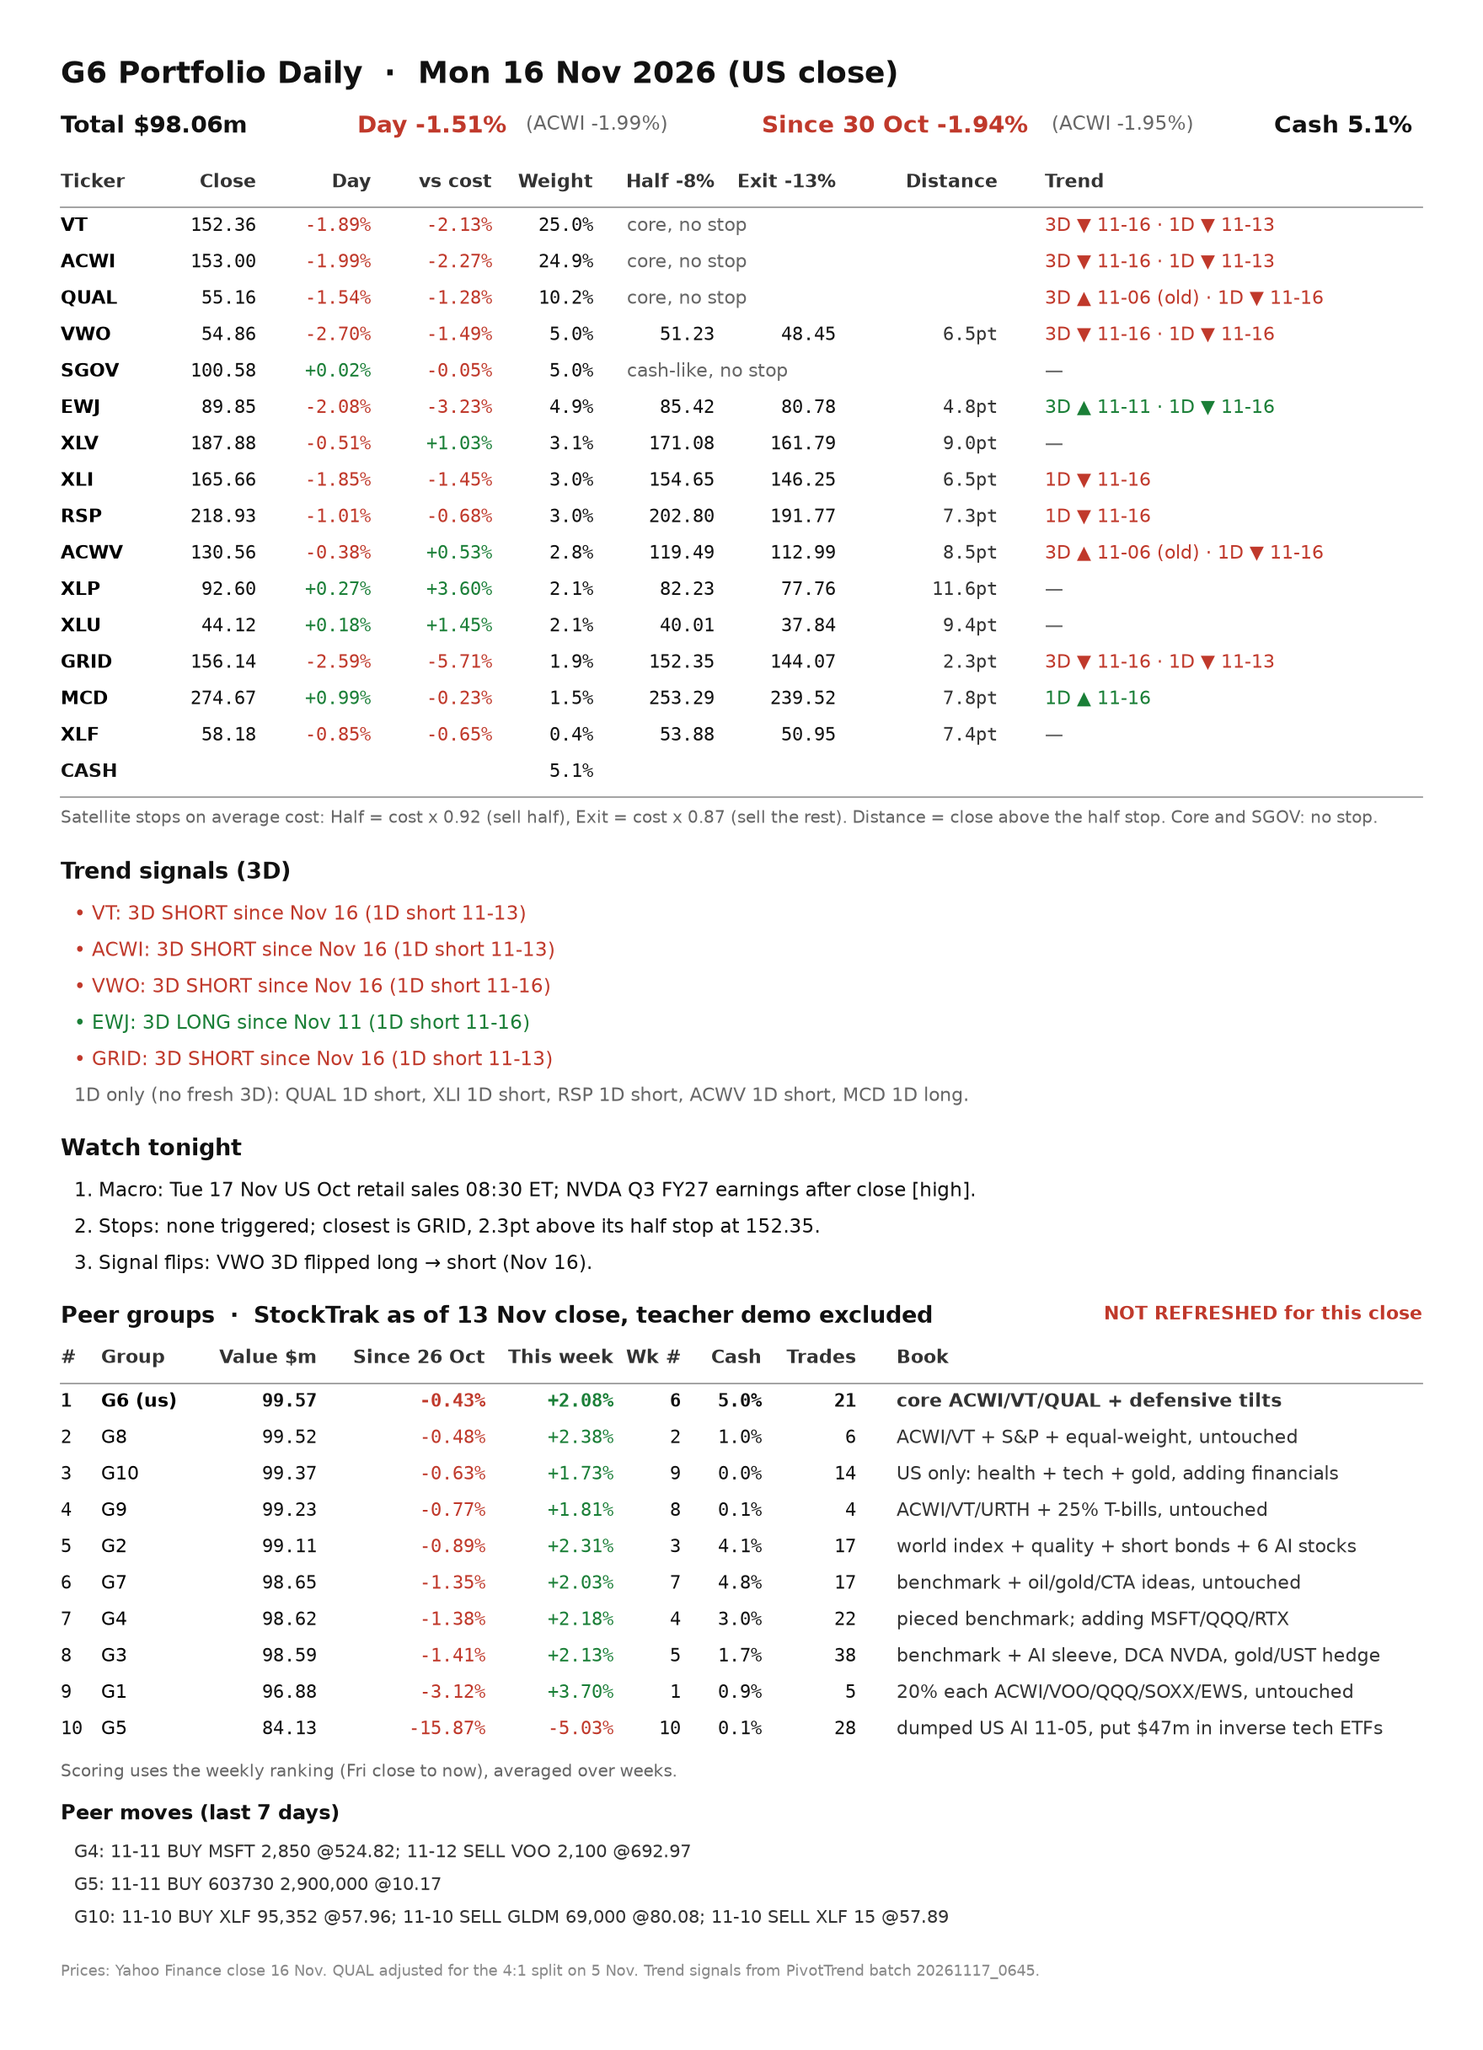
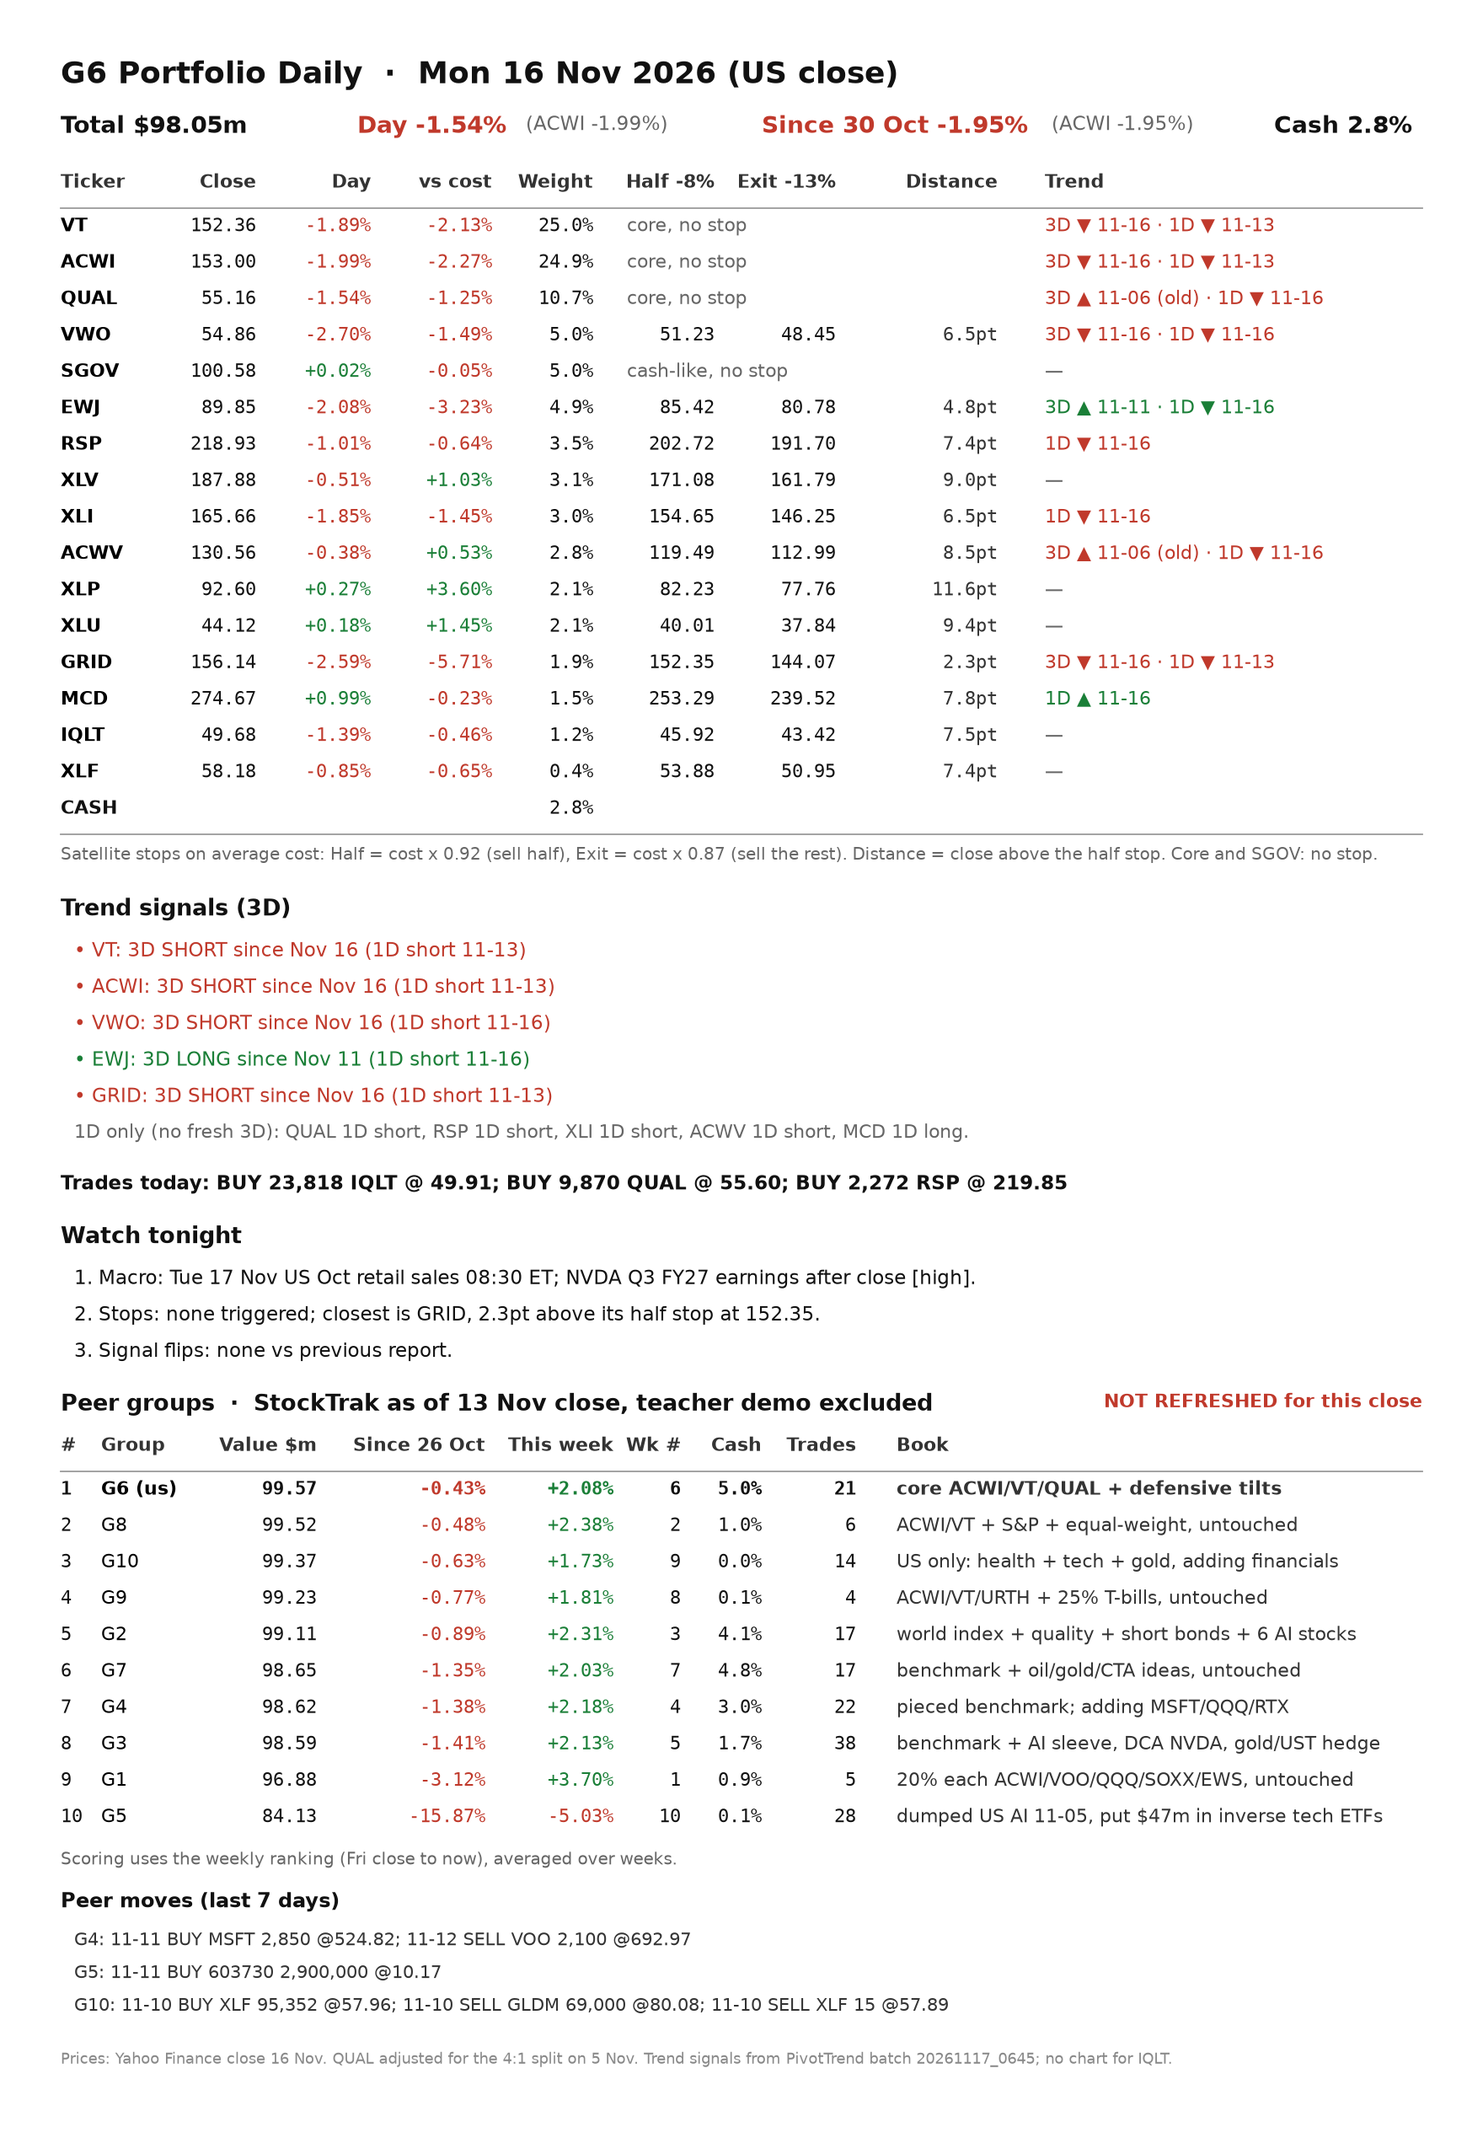
G6 daily 2026-11-17

diff --git a/docs/g6/index.html b/docs/g6/index.html
@@ -16,35 +16,86 @@ ol,ul{padding-left:22px;margin:6px 0}li{margin:3px 0}p{margin:8px 0}i{color:var(
 .foot{color:var(--mut);font-size:12px;margin-top:24px}
 </style></head><body>
 <h1>G6 Portfolio Daily</h1>
-<div class="sub">WM6813 StockTrak · account WMI26PMG6 · benchmark MSCI ACWI · updated 17 Nov 2026 06:45 SGT · newest first; earlier weeks fold below</div>
+<div class="sub">WM6813 StockTrak · account WMI26PMG6 · benchmark MSCI ACWI · updated 18 Nov 2026 06:50 SGT · newest first; earlier weeks fold below</div>
 <h3 style="color:var(--mut);font-size:13px;margin:0 0 8px">This week</h3>
-<section class="day" id="d20261116"><h2>Mon 16 Nov 2026 (US close)<a href="G6_daily_20261116.png" target="_blank">PNG ↗</a></h2><p><b>Total $98.06m</b> | Day <span class="dn">-1.51%</span> (ACWI <span class="dn">-1.99%</span>) | Since 30 Oct <span class="dn">-1.94%</span> (ACWI <span class="dn">-1.95%</span>) | Cash 5.1% ($5.00m)</p>
+<section class="day" id="d20261117"><h2>Tue 17 Nov 2026 (US close)<a href="G6_daily_20261117.png" target="_blank">PNG ↗</a></h2><p><b>Total $97.05m</b> | Day <span class="dn">-1.02%</span> (ACWI <span class="dn">-1.08%</span>) | Since 30 Oct <span class="dn">-2.95%</span> (ACWI <span class="dn">-3.01%</span>) | Cash 2.8% ($2.76m)</p>
+<div class="tw"><table class="h9"><thead><tr><th>Ticker</th><th>Close</th><th>Day</th><th>vs cost</th><th>Weight</th><th>Half -8%</th><th>Exit -13%</th><th>Distance</th><th>Trend</th></tr></thead><tbody>
+<tr><td>VT</td><td>150.65</td><td><span class="dn">-1.12%</span></td><td><span class="dn">-3.23%</span></td><td>24.9%</td><td>core, no stop</td><td></td><td></td><td>3D ▼ 11-16 · 1D ▼ 11-13</td></tr>
+<tr><td>ACWI</td><td>151.34</td><td><span class="dn">-1.08%</span></td><td><span class="dn">-3.33%</span></td><td>24.9%</td><td>core, no stop</td><td></td><td></td><td>3D ▼ 11-16 · 1D ▼ 11-13</td></tr>
+<tr><td>QUAL</td><td>54.49</td><td><span class="dn">-1.21%</span></td><td><span class="dn">-2.45%</span></td><td>10.7%</td><td>core, no stop</td><td></td><td></td><td>3D ▲ 11-06 (old) · 1D ▼ 11-16</td></tr>
+<tr><td>SGOV</td><td>100.59</td><td><span class="up">+0.01%</span></td><td><span class="dn">-0.04%</span></td><td>5.0%</td><td>cash-like, no stop</td><td></td><td></td><td></td></tr>
+<tr><td>VWO</td><td>54.30</td><td><span class="dn">-1.02%</span></td><td><span class="dn">-2.50%</span></td><td>5.0%</td><td>51.23</td><td>48.45</td><td>5.5pt</td><td>3D ▼ 11-16 · 1D ▼ 11-16</td></tr>
+<tr><td>EWJ</td><td>88.69</td><td><span class="dn">-1.29%</span></td><td><span class="dn">-4.48%</span></td><td>4.9%</td><td>85.42</td><td>80.78</td><td>3.5pt</td><td>3D ▲ 11-11 · 1D ▼ 11-16</td></tr>
+<tr><td>RSP</td><td>215.76</td><td><span class="dn">-1.45%</span></td><td><span class="dn">-2.08%</span></td><td>3.5%</td><td>202.72</td><td>191.70</td><td>5.9pt</td><td>1D ▼ 11-16</td></tr>
+<tr><td>XLV</td><td>185.24</td><td><span class="dn">-1.41%</span></td><td><span class="dn">-0.39%</span></td><td>3.1%</td><td>171.08</td><td>161.79</td><td>7.6pt</td><td>3D ▼ 11-16 · 1D ▼ 11-17</td></tr>
+<tr><td>XLI</td><td>164.75</td><td><span class="dn">-0.55%</span></td><td><span class="dn">-1.99%</span></td><td>3.0%</td><td>154.65</td><td>146.25</td><td>6.0pt</td><td>1D ▼ 11-16</td></tr>
+<tr><td>ACWV</td><td>129.04</td><td><span class="dn">-1.16%</span></td><td><span class="dn">-0.64%</span></td><td>2.8%</td><td>119.49</td><td>112.99</td><td>7.4pt</td><td>3D ▲ 11-06 (old) · 1D ▼ 11-16</td></tr>
+<tr><td>XLP</td><td>91.46</td><td><span class="dn">-1.23%</span></td><td><span class="up">+2.33%</span></td><td>2.1%</td><td>82.23</td><td>77.76</td><td>10.3pt</td><td>1D ▼ 11-17</td></tr>
+<tr><td>XLU</td><td>43.42</td><td><span class="dn">-1.59%</span></td><td><span class="dn">-0.16%</span></td><td>2.1%</td><td>40.01</td><td>37.84</td><td>7.8pt</td><td>1D ▼ 11-17</td></tr>
+<tr><td>GRID</td><td>155.15</td><td><span class="dn">-0.63%</span></td><td><span class="dn">-6.31%</span></td><td>1.9%</td><td>152.35</td><td>144.07</td><td>1.7pt</td><td>3D ▼ 11-16 · 1D ▼ 11-13</td></tr>
+<tr><td>MCD</td><td>275.82</td><td><span class="up">+0.42%</span></td><td><span class="up">+0.19%</span></td><td>1.5%</td><td>253.29</td><td>239.52</td><td>8.2pt</td><td>1D ▲ 11-17</td></tr>
+<tr><td>IQLT</td><td>49.16</td><td><span class="dn">-1.05%</span></td><td><span class="dn">-1.50%</span></td><td>1.2%</td><td>45.92</td><td>43.42</td><td>6.5pt</td><td>1D ▼ 11-16</td></tr>
+<tr><td>XLF</td><td>57.07</td><td><span class="dn">-1.91%</span></td><td><span class="dn">-2.54%</span></td><td>0.4%</td><td>53.88</td><td>50.95</td><td>5.5pt</td><td>3D ▼ 11-16 · 1D ▼ 11-17</td></tr>
+<tr><td>CASH</td><td></td><td></td><td></td><td>2.8%</td><td></td><td></td><td></td><td></td></tr>
+</tbody></table></div>
+<p>Stops (satellites only, on average cost): Half = cost x 0.92, sell half. Exit = cost x 0.87, sell the rest. Distance = close above the half stop, in points of cost. Trend signals from PivotTrend batch 20261118_0649.</p>
+<p><b>Trend signals (3D):</b> VT: 3D SHORT since Nov 16 (1D short 11-13); ACWI: 3D SHORT since Nov 16 (1D short 11-13); VWO: 3D SHORT since Nov 16 (1D short 11-16); EWJ: 3D LONG since Nov 11 (1D short 11-16); XLV: 3D SHORT since Nov 16 (1D short 11-17); GRID: 3D SHORT since Nov 16 (1D short 11-13); XLF: 3D SHORT since Nov 16 (1D short 11-17)</p>
+<p>1D only (no fresh 3D): QUAL 1D short, RSP 1D short, XLI 1D short, ACWV 1D short, XLP 1D short, XLU 1D short, MCD 1D long, IQLT 1D short.</p>
+<p><b>Watch tonight</b></p>
+<ol>
+<li>Macro: no high-tier events listed for the next 5 days (G6_events.csv)</li>
+<li>Stops: GRID closed 155.15, only 1.7pt above its half stop 152.35.</li>
+<li>Signal flips: none vs previous report.</li>
+</ol>
+<p><b>Peer groups</b> (StockTrak ranking as of 13 Nov close; teacher demo excluded; NOT REFRESHED for this close)</p>
+<div class="tw"><table class="pt"><thead><tr><th>#</th><th>Group</th><th>Value $m</th><th>Since 26 Oct</th><th>This week</th><th>Wk #</th><th>Cash</th><th>Trades</th><th>Book</th></tr></thead><tbody>
+<tr><td>1</td><td><b>G6 (us)</b></td><td>99.57</td><td><span class="dn">-0.43%</span></td><td><span class="up">+2.08%</span></td><td>6</td><td>5.0%</td><td>21</td><td>core ACWI/VT/QUAL + defensive tilts</td></tr>
+<tr><td>2</td><td>G8</td><td>99.52</td><td><span class="dn">-0.48%</span></td><td><span class="up">+2.38%</span></td><td>2</td><td>1.0%</td><td>6</td><td>ACWI/VT + S&amp;P + equal-weight, untouched</td></tr>
+<tr><td>3</td><td>G10</td><td>99.37</td><td><span class="dn">-0.63%</span></td><td><span class="up">+1.73%</span></td><td>9</td><td>0.0%</td><td>14</td><td>US only: health + tech + gold, adding financials</td></tr>
+<tr><td>4</td><td>G9</td><td>99.23</td><td><span class="dn">-0.77%</span></td><td><span class="up">+1.81%</span></td><td>8</td><td>0.1%</td><td>4</td><td>ACWI/VT/URTH + 25% T-bills, untouched</td></tr>
+<tr><td>5</td><td>G2</td><td>99.11</td><td><span class="dn">-0.89%</span></td><td><span class="up">+2.31%</span></td><td>3</td><td>4.1%</td><td>17</td><td>world index + quality + short bonds + 6 AI stocks</td></tr>
+<tr><td>6</td><td>G7</td><td>98.65</td><td><span class="dn">-1.35%</span></td><td><span class="up">+2.03%</span></td><td>7</td><td>4.8%</td><td>17</td><td>benchmark + oil/gold/CTA ideas, untouched</td></tr>
+<tr><td>7</td><td>G4</td><td>98.62</td><td><span class="dn">-1.38%</span></td><td><span class="up">+2.18%</span></td><td>4</td><td>3.0%</td><td>22</td><td>pieced benchmark; adding MSFT/QQQ/RTX</td></tr>
+<tr><td>8</td><td>G3</td><td>98.59</td><td><span class="dn">-1.41%</span></td><td><span class="up">+2.13%</span></td><td>5</td><td>1.7%</td><td>38</td><td>benchmark + AI sleeve, DCA NVDA, gold/UST hedge</td></tr>
+<tr><td>9</td><td>G1</td><td>96.88</td><td><span class="dn">-3.12%</span></td><td><span class="up">+3.70%</span></td><td>1</td><td>0.9%</td><td>5</td><td>20% each ACWI/VOO/QQQ/SOXX/EWS, untouched</td></tr>
+<tr><td>10</td><td>G5</td><td>84.13</td><td><span class="dn">-15.87%</span></td><td><span class="dn">-5.03%</span></td><td>10</td><td>0.1%</td><td>28</td><td>dumped US AI 11-05, put $47m in inverse tech ETFs</td></tr>
+</tbody></table></div>
+<p>Scoring uses the weekly ranking (Fri close to now), averaged over weeks.</p>
+<p><b>Peer moves (last 7 days)</b></p>
+<ul>
+<li>G4: 11-11 BUY MSFT 2,850 @524.82; 11-12 SELL VOO 2,100 @692.97</li>
+<li>G5: 11-11 BUY 603730 2,900,000 @10.17</li>
+</ul>
+<p><i>Prices: Yahoo Finance close 17 Nov. QUAL adjusted for the 4:1 split on 5 Nov. Trades since the initial build: 11.</i></p></section>
+<section class="day" id="d20261116"><h2>Mon 16 Nov 2026 (US close)<a href="G6_daily_20261116.png" target="_blank">PNG ↗</a></h2><p><b>Total $98.05m</b> | Day <span class="dn">-1.54%</span> (ACWI <span class="dn">-1.99%</span>) | Since 30 Oct <span class="dn">-1.95%</span> (ACWI <span class="dn">-1.95%</span>) | Cash 2.8% ($2.76m)</p>
 <div class="tw"><table class="h9"><thead><tr><th>Ticker</th><th>Close</th><th>Day</th><th>vs cost</th><th>Weight</th><th>Half -8%</th><th>Exit -13%</th><th>Distance</th><th>Trend</th></tr></thead><tbody>
 <tr><td>VT</td><td>152.36</td><td><span class="dn">-1.89%</span></td><td><span class="dn">-2.13%</span></td><td>25.0%</td><td>core, no stop</td><td></td><td></td><td>3D ▼ 11-16 · 1D ▼ 11-13</td></tr>
 <tr><td>ACWI</td><td>153.00</td><td><span class="dn">-1.99%</span></td><td><span class="dn">-2.27%</span></td><td>24.9%</td><td>core, no stop</td><td></td><td></td><td>3D ▼ 11-16 · 1D ▼ 11-13</td></tr>
-<tr><td>QUAL</td><td>55.16</td><td><span class="dn">-1.54%</span></td><td><span class="dn">-1.28%</span></td><td>10.2%</td><td>core, no stop</td><td></td><td></td><td>3D ▲ 11-06 (old) · 1D ▼ 11-16</td></tr>
+<tr><td>QUAL</td><td>55.16</td><td><span class="dn">-1.54%</span></td><td><span class="dn">-1.25%</span></td><td>10.7%</td><td>core, no stop</td><td></td><td></td><td>3D ▲ 11-06 (old) · 1D ▼ 11-16</td></tr>
 <tr><td>VWO</td><td>54.86</td><td><span class="dn">-2.70%</span></td><td><span class="dn">-1.49%</span></td><td>5.0%</td><td>51.23</td><td>48.45</td><td>6.5pt</td><td>3D ▼ 11-16 · 1D ▼ 11-16</td></tr>
 <tr><td>SGOV</td><td>100.58</td><td><span class="up">+0.02%</span></td><td><span class="dn">-0.05%</span></td><td>5.0%</td><td>cash-like, no stop</td><td></td><td></td><td></td></tr>
 <tr><td>EWJ</td><td>89.85</td><td><span class="dn">-2.08%</span></td><td><span class="dn">-3.23%</span></td><td>4.9%</td><td>85.42</td><td>80.78</td><td>4.8pt</td><td>3D ▲ 11-11 · 1D ▼ 11-16</td></tr>
+<tr><td>RSP</td><td>218.93</td><td><span class="dn">-1.01%</span></td><td><span class="dn">-0.64%</span></td><td>3.5%</td><td>202.72</td><td>191.70</td><td>7.4pt</td><td>1D ▼ 11-16</td></tr>
 <tr><td>XLV</td><td>187.88</td><td><span class="dn">-0.51%</span></td><td><span class="up">+1.03%</span></td><td>3.1%</td><td>171.08</td><td>161.79</td><td>9.0pt</td><td></td></tr>
 <tr><td>XLI</td><td>165.66</td><td><span class="dn">-1.85%</span></td><td><span class="dn">-1.45%</span></td><td>3.0%</td><td>154.65</td><td>146.25</td><td>6.5pt</td><td>1D ▼ 11-16</td></tr>
-<tr><td>RSP</td><td>218.93</td><td><span class="dn">-1.01%</span></td><td><span class="dn">-0.68%</span></td><td>3.0%</td><td>202.80</td><td>191.77</td><td>7.3pt</td><td>1D ▼ 11-16</td></tr>
 <tr><td>ACWV</td><td>130.56</td><td><span class="dn">-0.38%</span></td><td><span class="up">+0.53%</span></td><td>2.8%</td><td>119.49</td><td>112.99</td><td>8.5pt</td><td>3D ▲ 11-06 (old) · 1D ▼ 11-16</td></tr>
 <tr><td>XLP</td><td>92.60</td><td><span class="up">+0.27%</span></td><td><span class="up">+3.60%</span></td><td>2.1%</td><td>82.23</td><td>77.76</td><td>11.6pt</td><td></td></tr>
 <tr><td>XLU</td><td>44.12</td><td><span class="up">+0.18%</span></td><td><span class="up">+1.45%</span></td><td>2.1%</td><td>40.01</td><td>37.84</td><td>9.4pt</td><td></td></tr>
 <tr><td>GRID</td><td>156.14</td><td><span class="dn">-2.59%</span></td><td><span class="dn">-5.71%</span></td><td>1.9%</td><td>152.35</td><td>144.07</td><td>2.3pt</td><td>3D ▼ 11-16 · 1D ▼ 11-13</td></tr>
 <tr><td>MCD</td><td>274.67</td><td><span class="up">+0.99%</span></td><td><span class="dn">-0.23%</span></td><td>1.5%</td><td>253.29</td><td>239.52</td><td>7.8pt</td><td>1D ▲ 11-16</td></tr>
+<tr><td>IQLT</td><td>49.68</td><td><span class="dn">-1.39%</span></td><td><span class="dn">-0.46%</span></td><td>1.2%</td><td>45.92</td><td>43.42</td><td>7.5pt</td><td></td></tr>
 <tr><td>XLF</td><td>58.18</td><td><span class="dn">-0.85%</span></td><td><span class="dn">-0.65%</span></td><td>0.4%</td><td>53.88</td><td>50.95</td><td>7.4pt</td><td></td></tr>
-<tr><td>CASH</td><td></td><td></td><td></td><td>5.1%</td><td></td><td></td><td></td><td></td></tr>
+<tr><td>CASH</td><td></td><td></td><td></td><td>2.8%</td><td></td><td></td><td></td><td></td></tr>
 </tbody></table></div>
-<p>Stops (satellites only, on average cost): Half = cost x 0.92, sell half. Exit = cost x 0.87, sell the rest. Distance = close above the half stop, in points of cost. Trend signals from PivotTrend batch 20261117_0645.</p>
+<p>Stops (satellites only, on average cost): Half = cost x 0.92, sell half. Exit = cost x 0.87, sell the rest. Distance = close above the half stop, in points of cost. Trend signals from PivotTrend batch 20261117_0645; no chart for IQLT.</p>
 <p><b>Trend signals (3D):</b> VT: 3D SHORT since Nov 16 (1D short 11-13); ACWI: 3D SHORT since Nov 16 (1D short 11-13); VWO: 3D SHORT since Nov 16 (1D short 11-16); EWJ: 3D LONG since Nov 11 (1D short 11-16); GRID: 3D SHORT since Nov 16 (1D short 11-13)</p>
-<p>1D only (no fresh 3D): QUAL 1D short, XLI 1D short, RSP 1D short, ACWV 1D short, MCD 1D long.</p>
+<p>1D only (no fresh 3D): QUAL 1D short, RSP 1D short, XLI 1D short, ACWV 1D short, MCD 1D long.</p>
+<p><b>Trades today:</b> BUY 23,818 IQLT @ 49.91; BUY 9,870 QUAL @ 55.60; BUY 2,272 RSP @ 219.85</p>
 <p><b>Watch tonight</b></p>
 <ol>
 <li>Macro: Tue 17 Nov US Oct retail sales 08:30 ET; NVDA Q3 FY27 earnings after close [high].</li>
 <li>Stops: none triggered; closest is GRID, 2.3pt above its half stop at 152.35.</li>
-<li>Signal flips: VWO 3D flipped long → short (Nov 16).</li>
+<li>Signal flips: none vs previous report.</li>
 </ol>
 <p><b>Peer groups</b> (StockTrak ranking as of 13 Nov close; teacher demo excluded; NOT REFRESHED for this close)</p>
 <div class="tw"><table class="pt"><thead><tr><th>#</th><th>Group</th><th>Value $m</th><th>Since 26 Oct</th><th>This week</th><th>Wk #</th><th>Cash</th><th>Trades</th><th>Book</th></tr></thead><tbody>
@@ -66,7 +117,7 @@ ol,ul{padding-left:22px;margin:6px 0}li{margin:3px 0}p{margin:8px 0}i{color:var(
 <li>G5: 11-11 BUY 603730 2,900,000 @10.17</li>
 <li>G10: 11-10 BUY XLF 95,352 @57.96; 11-10 SELL GLDM 69,000 @80.08; 11-10 SELL XLF 15 @57.89</li>
 </ul>
-<p><i>Prices: Yahoo Finance close 16 Nov. QUAL adjusted for the 4:1 split on 5 Nov. Trades since the initial build: 8.</i></p></section>
+<p><i>Prices: Yahoo Finance close 16 Nov. QUAL adjusted for the 4:1 split on 5 Nov. Trades since the initial build: 11.</i></p></section>
 <details class="week"><summary>Week of 09 Nov – 13 Nov 2026 · 5 reports</summary>
 <section class="day" id="d20261113"><h2>Fri 13 Nov 2026 (US close)<a href="G6_daily_20261113.png" target="_blank">PNG ↗</a></h2><p><b>Total $99.57m</b> | Day <span class="dn">-0.09%</span> (ACWI <span class="dn">-0.27%</span>) | Since 30 Oct <span class="dn">-0.43%</span> (ACWI <span class="up">+0.04%</span>) | Cash 5.0% ($5.00m) | Rank 1/10 overall, 6/10 this week</p>
 <div class="tw"><table class="h9"><thead><tr><th>Ticker</th><th>Close</th><th>Day</th><th>vs cost</th><th>Weight</th><th>Half -8%</th><th>Exit -13%</th><th>Distance</th><th>Trend</th></tr></thead><tbody>
